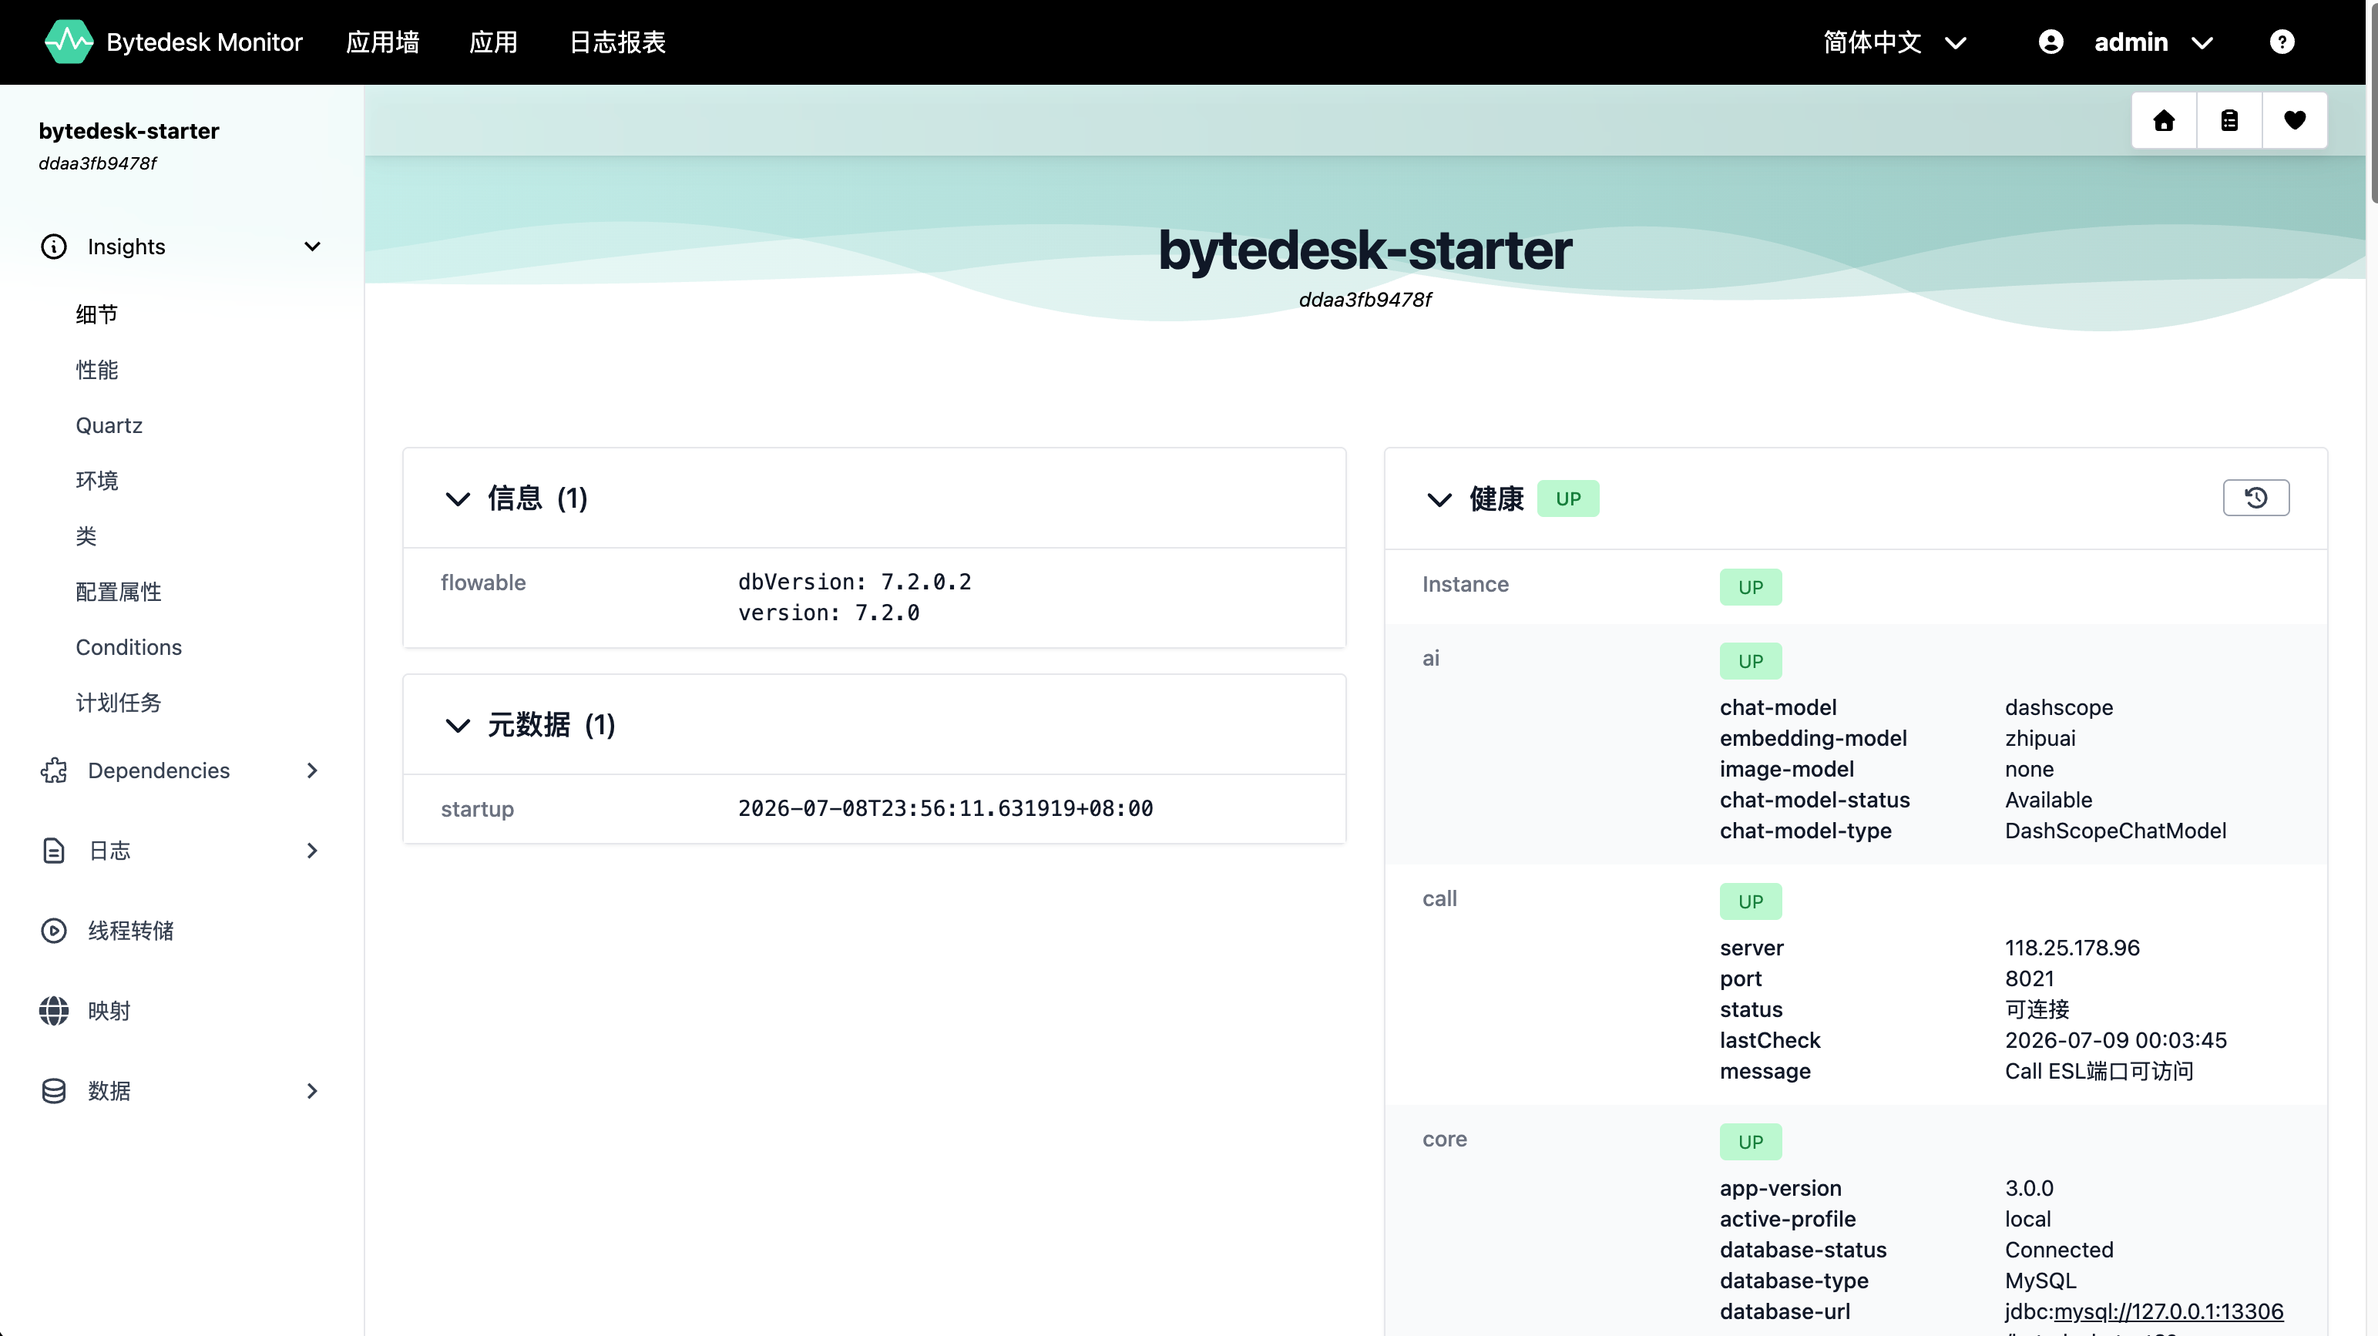
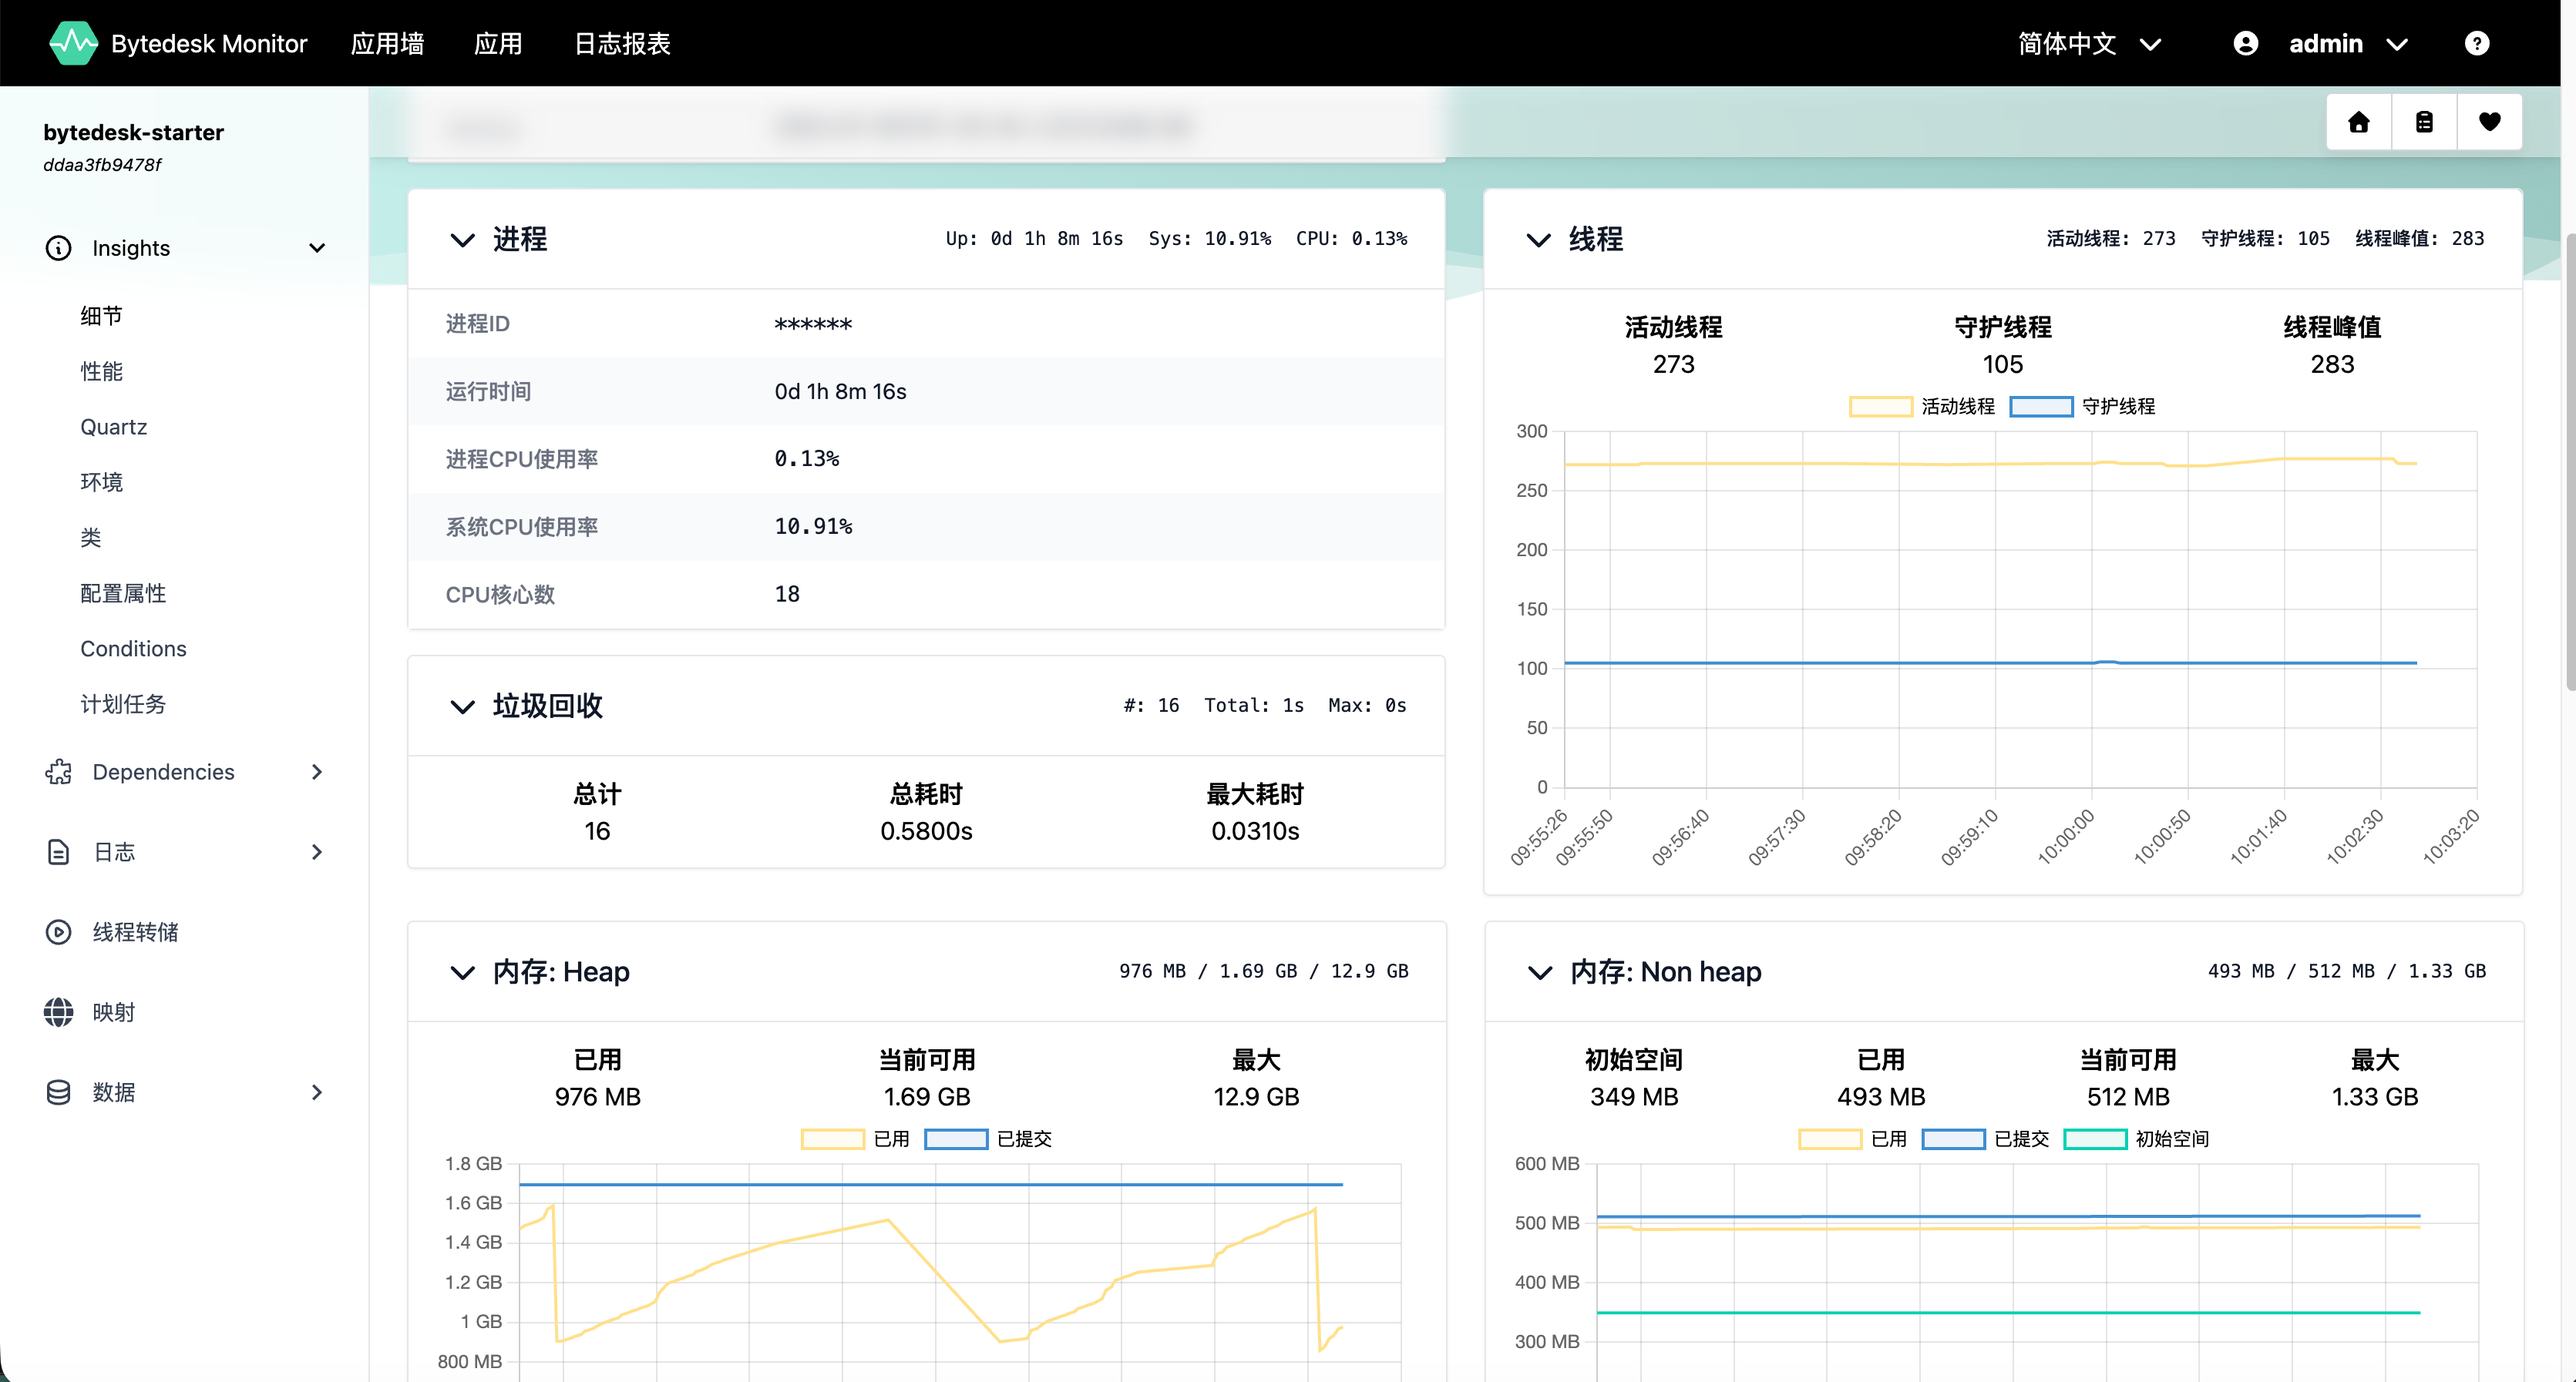
update

diff --git a/README.md b/README.md
@@ -95,6 +95,24 @@ spring.boot.admin.client.instance.name=bytedesk-starter
 spring.boot.admin.client.instance.service-base-url=http://127.0.0.1:9003
 ```
 
+### Mail Notifications (`application-open.properties`)
+
+Use environment variables for SMTP credentials and recipients in public or production deployments.
+
+```properties
+spring.mail.host=${SPRING_MAIL_HOST:smtp.qiye.aliyun.com}
+spring.mail.port=${SPRING_MAIL_PORT:465}
+spring.mail.username=${SPRING_MAIL_USERNAME:support@example.com}
+spring.mail.password=${SPRING_MAIL_PASSWORD:}
+spring.mail.properties.mail.smtp.auth=true
+spring.mail.properties.mail.smtp.ssl.enable=true
+spring.mail.properties.mail.smtp.ssl.trust=${SPRING_MAIL_SMTP_SSL_TRUST:smtp.qiye.aliyun.com}
+
+spring.boot.admin.notify.mail.enabled=true
+spring.boot.admin.notify.mail.to=${SPRING_BOOT_ADMIN_NOTIFY_MAIL_TO:demo@example.com}
+spring.boot.admin.notify.mail.from=${SPRING_BOOT_ADMIN_NOTIFY_MAIL_FROM:Bytedesk Monitor <support@example.com>}
+```
+
 ## Features
 
 - **Health Dashboard** — live status of all registered services
@@ -117,6 +135,16 @@ spring.boot.admin.client.instance.service-base-url=http://127.0.0.1:9003
 ### Event Journal
 
 ![Event Journal](images/bytedesk-monitor-journal.png)
+
+![Event logs](/img/monitor/bytedesk-monitor-logs.png)
+
+## Quartz Task
+
+![Quartz Task](/img/monitor/bytedesk-monitor-quartz.png)
+
+## Thread Dump
+
+![Thread Dump](/img/monitor/bytedesk-monitor-threaddump.png)
 
 ## Related Links
 
